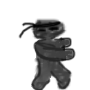
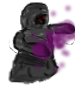
finished necromancer

diff --git a/source/adventuregame/src/game/classtype/ClasstypeNecromancer.java b/source/adventuregame/src/game/classtype/ClasstypeNecromancer.java
@@ -8,6 +8,7 @@ package game.classtype;
 import game.Game;
 import game.constructs.ImageBox;
 import game.constructs.StunBox;
+import game.constructs.entity.EntityHaunter;
 import game.constructs.entity.character.Gharacter;
 import game.constructs.entity.character.Gharacter.State;
 import game.constructs.entity.character.NonPlayerCharacter;
@@ -351,7 +352,7 @@ public class ClasstypeNecromancer extends Classtype {
      * Ability 2
      */
     public int ability2AT = 24;
-    public double ability2Cost = 60;
+    public double ability2Cost = 80;
     public int ability2ExecFrame = 2;
     public int ability2CD = 2 + ability2AT;
     public int ability2CDTimer = 0;
@@ -410,7 +411,7 @@ public class ClasstypeNecromancer extends Classtype {
      * Ability 3
      */
     public int ability3AT = 20;
-    public double ability3Cost = 1;
+    public double ability3Cost = 1.5;
     public int ability3ExecFrame = 2;
     public int ability3CD = 30 + ability3AT;
     public int ability3CDTimer = 0;
@@ -525,9 +526,9 @@ public class ClasstypeNecromancer extends Classtype {
     /**
      * Ability 4
      */
-    public int ability4AT = 8;
-    public double ability4Cost = 40;
-    public int ability4ExecFrame = 6;
+    public int ability4AT = 15;
+    public double ability4Cost = 35;
+    public int ability4ExecFrame = 3;
     public int ability4CD = 60 + ability4AT;
     public int ability4CDTimer = 0;
 
@@ -541,24 +542,22 @@ public class ClasstypeNecromancer extends Classtype {
     }
 
     private void execAbility4() {
-        StunBox sb = new StunBox(
-                this.gharacter.position.copy(),
-                new Spatial(4, 2, 10));
-        sb.setParent(this.gharacter);
-        sb.setStun(30);
-        sb.setDamage(2);
-        sb.position.x += this.gharacter.x_orientation * (this.gharacter.size.x / 2 + sb.size.x / 2 + 0.01);
-        //System.out.println(sb);
-        Game.instance.space.addConstruct(sb);
+        Spatial pos = this.gharacter.position.copy();
+        pos.x += this.gharacter.size.x / 2 * this.gharacter.x_orientation;
+        pos.z += this.gharacter.size.z / 2;
+        Spatial size = new Spatial(6,2,6);
+        int lifetime = 300;
+        EntityHaunter h = new EntityHaunter(pos, size, lifetime, this.gharacter);
+        Game.instance.space.addConstruct(h);
     }
 
     private String ability4Image(String filename) {
         // ABILITY4
         if (this.gharacter.state == State.ABILITY4) {
             int f = this.gharacter.actionTimer;
-            if (f > 6) {
+            if (f > 9) {
                 f = 0;
-            } else if (f > 4) {
+            } else if (f > 3) {
                 f = 1;
             } else {
                 f = 2;

diff --git a/source/adventuregame/src/game/constructs/entity/EntityHaunter.java b/source/adventuregame/src/game/constructs/entity/EntityHaunter.java
@@ -1,0 +1,78 @@
+/*
+ * To change this license header, choose License Headers in Project Properties.
+ * To change this template file, choose Tools | Templates
+ * and open the template in the editor.
+ */
+package game.constructs.entity;
+
+import game.Game;
+import game.constructs.ImageBox;
+import game.constructs.entity.character.Gharacter;
+import java.awt.image.BufferedImage;
+import utility.ImageHandler;
+import utility.Spatial;
+
+/**
+ *
+ * @author mike
+ */
+public class EntityHaunter extends Entity{
+    
+    public int lifetime;
+    public Gharacter victim;
+    public boolean hasVictim;
+    public Gharacter parental;
+    
+    public double speed;
+    
+    public EntityHaunter(Spatial pos, Spatial size, int lifetime, Gharacter parental){
+        super(pos, size);
+        this.lifetime = lifetime;
+        this.x_orientation = parental.x_orientation;
+        this.parent = parental;
+        this.parental = parental;
+        this.victim = null;
+        this.damage = .1;
+        this.speed = 1;
+        this.tangibility = false;
+    }
+    
+    
+    @Override
+    public void update(){
+        if (!this.hasVictim){
+            this.position.x += this.speed * this.x_orientation;
+        }
+        else if (this.ticksExisted() > this.lifetime){
+            this.remove();
+        } else if (this.hasVictim && ((this.victim == null) || (!this.victim.isExistant()))){
+            this.parental.heal(this.parental.max_health * .5);
+            ImageBox ib = new ImageBox(parental.position, parental.size, 40, parental.x_orientation);
+            ib.setImage("necromancer", "DARKHEAL");
+            Game.instance.space.addConstruct(ib);
+            this.remove();
+        } else if ((this.victim != null) && this.victim.isExistant()){
+            this.victim.damage(damage);
+            this.x_orientation = victim.x_orientation;
+        }
+    }
+    
+    @Override
+    public void gharacteract(Gharacter g){
+        if (!this.hasVictim){
+            if (g.isAlly() != this.isAlly()){
+                this.victim = g;
+                this.velocity = new Spatial();
+                this.position = g.position;
+                this.size = g.size;
+                this.hasVictim = true;
+            }
+        }
+    }
+    
+    @Override
+    public BufferedImage getImage(){
+        return ImageHandler.getPNG("necromancer", "HAUNT-0");
+    }
+    
+}

diff --git a/source/adventuregame/src/game/Game.java b/source/adventuregame/src/game/Game.java
@@ -86,10 +86,10 @@ public class Game {
         //npc.setClasstype(new ClasstypeViking(npc));
         //npc.setClasstype(new ClasstypeAssassin(npc));
         npc.setClasstype(new ClasstypeDummySkeleton(npc));
-        //AISimple ai = new AISimple(npc);
+        AISimple ai = new AISimple(npc);
         //ai.action = Command.ACTION1;
         //AISmack ai = new AISmack(npc);
-        AIDummySkeleton ai = new AIDummySkeleton(npc);
+        //AIDummySkeleton ai = new AIDummySkeleton(npc);
         AI gai = (AI) ai;
         npc.setAI(gai);
         Construct con = new Construct(new Spatial(10, 10, 0),
